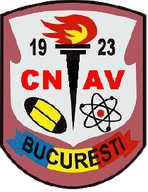
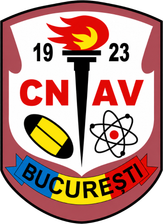
fix: stema CNAV inlocuita cu versiunea refacuta, transparenta
Fisier nou de la client (1024x1024, contur redesenat curat, BUCURESTI cu
diacritica corecta) in locul celui luat de pe cnav.ro (210x273, contur moale).

Tunsa de marginea transparenta inainte de redimensionare — altfel stema ar fi
aparut mai mica decat caseta, cu spatiu gol imprejur pe care nimeni nu l-ar fi
pus pe seama fisierului. Iese 163x224, adica dublul celor 112px la care se
afiseaza, ca sa fie curata pe ecrane retina. 618 KB -> 52 KB.

Dimensiunile din <Image> urmeaza fisierul real: daca ramaneau cele vechi, Next
rezerva alt spatiu decat ocupa imaginea si randul sarea la incarcare.

diff --git a/app/parteneri/page.tsx b/app/parteneri/page.tsx
@@ -74,8 +74,8 @@ export default function ParteneriPage() {
                   <Image
                     src={p.logo}
                     alt={`Sigla ${p.nume}`}
-                    width={148}
-                    height={192}
+                    width={163}
+                    height={224}
                     className="h-28 w-auto flex-shrink-0 object-contain"
                   />
                 ) : (
